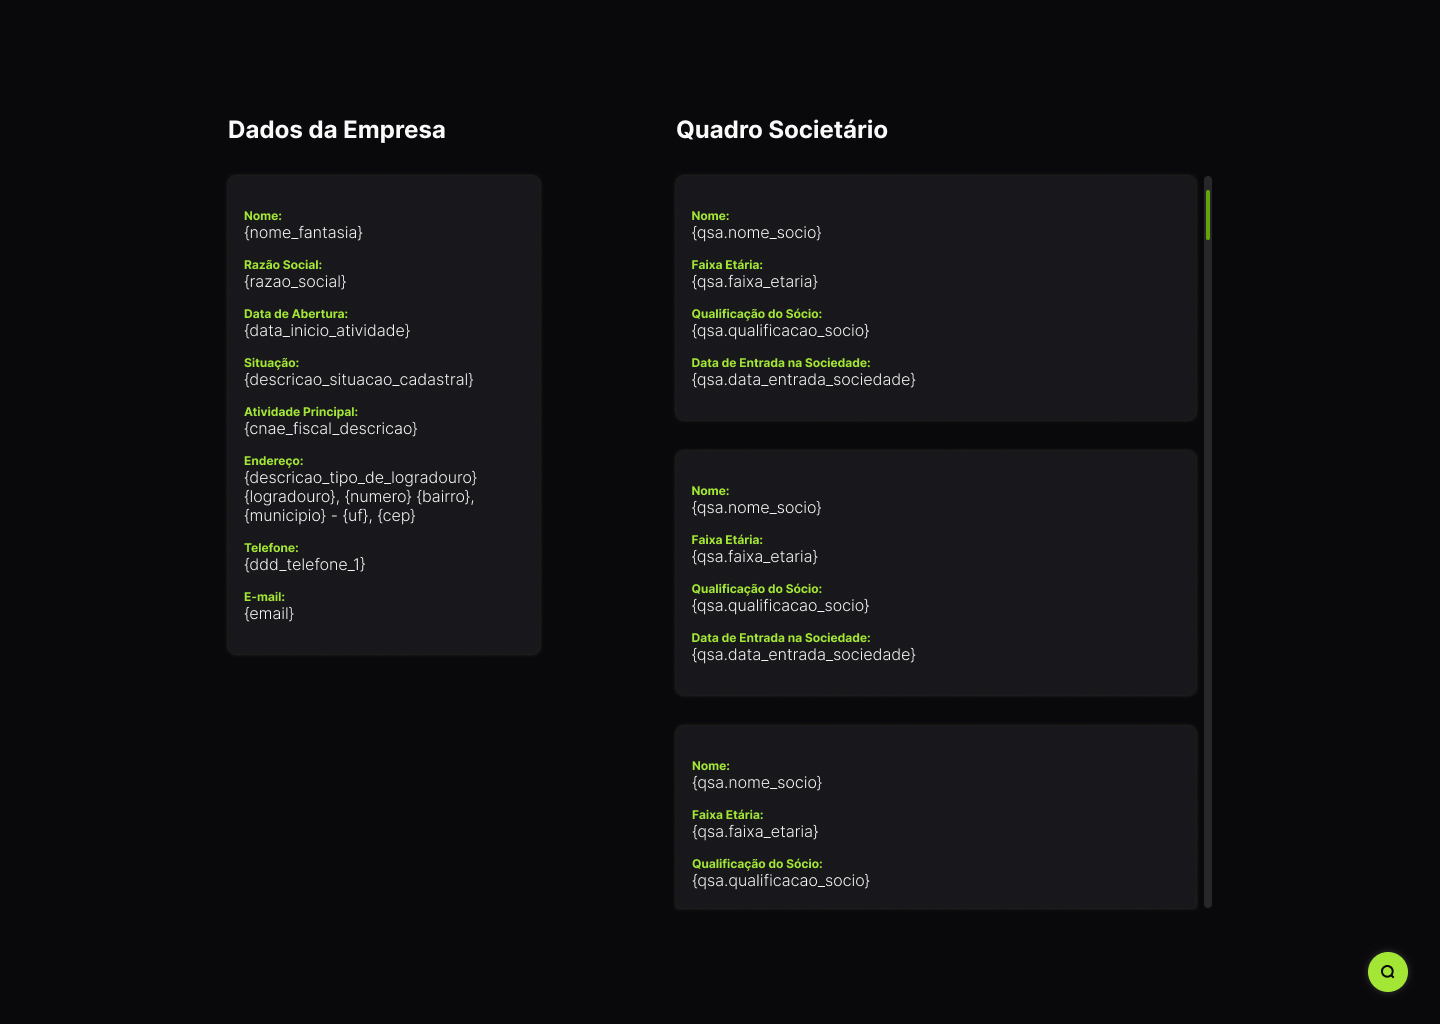
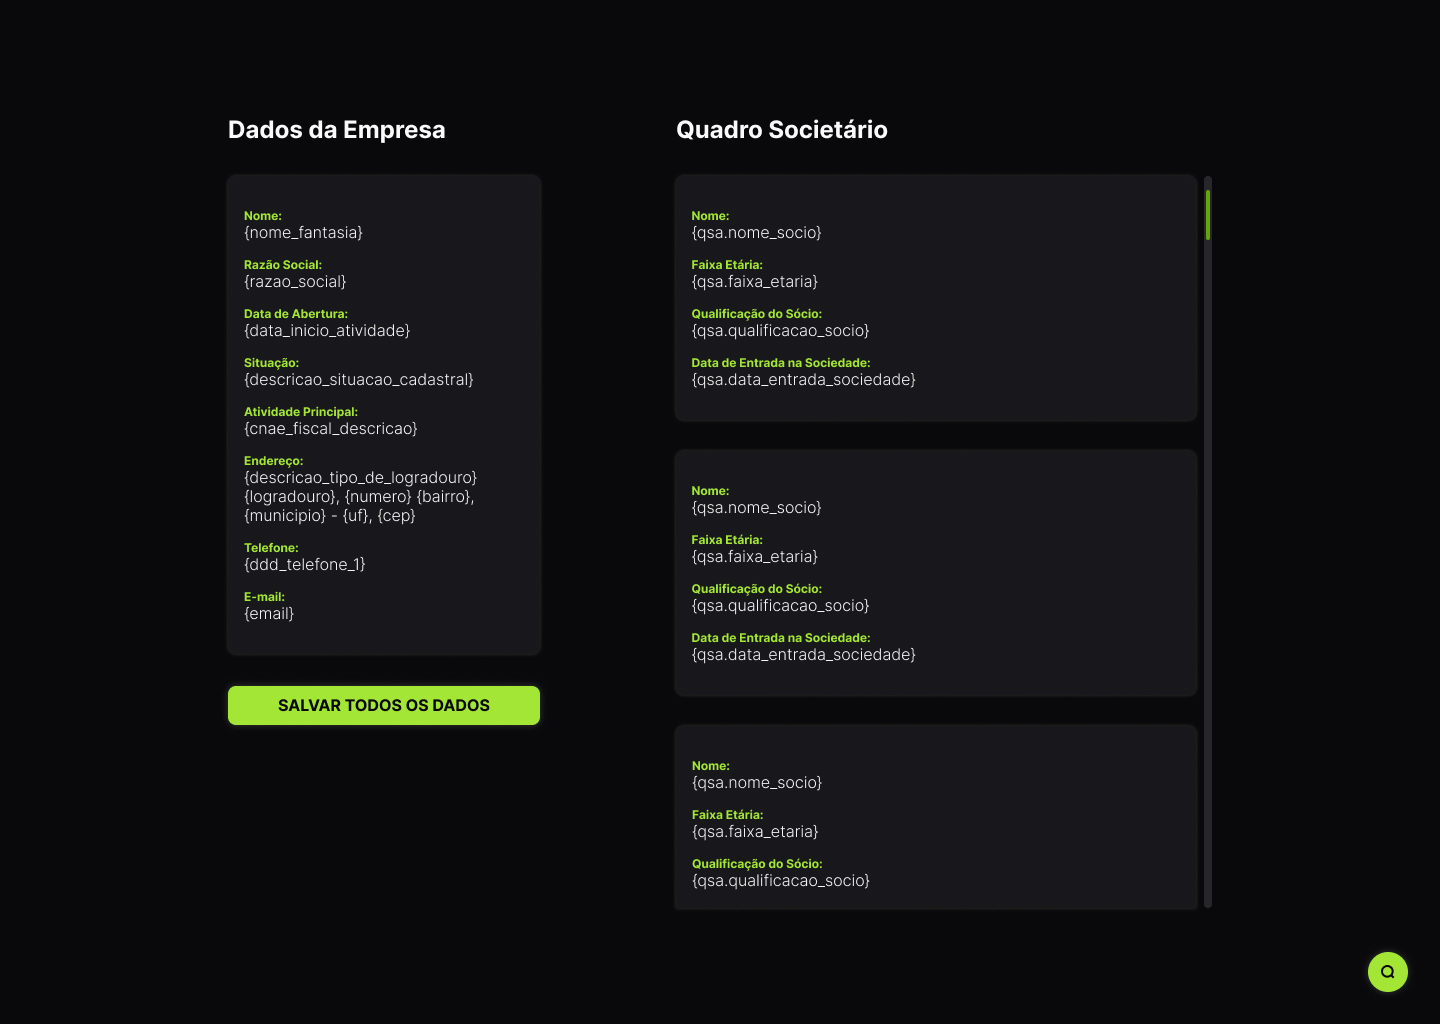
ajuste campos de edicao e adicao de form para envio das informacoes atualizadas

Changed region(s): [[0.1562, 0.6562, 0.375, 0.7188]]

diff --git a/src/components/Quadros/index.tsx b/src/components/Quadros/index.tsx
@@ -1,5 +1,7 @@
 import style from './Quadros.module.scss';
 
+import { CustomInput } from '../CustomInput';
+
 type QuadroEmpresaProps = {
     nome?: string,
     razao_social?: string,
@@ -12,40 +14,42 @@ type QuadroEmpresaProps = {
 }
 
 function QuadroEmpresa( {nome, razao_social, abertura, situacao, atividade, endereco, telefone, email}: QuadroEmpresaProps ) {
+
+
     return (
         <div className={style.quadro}>
             <ul>
                 <li>
                     <h3>Nome:</h3>
-                    {nome ? <p>{nome}</p> : <p className={style.quadro__naoInformado}>Nome não informado</p>}
+                    {nome ?  <CustomInput inputName={"empresaNome"} initialData={nome} /> : <CustomInput inputName={"empresaNome"} initialData={"DADO NÃO INFORMADO"} />}
                 </li>
                 <li>
                     <h3>Razão Social:</h3>
-                    {razao_social ? <p>{razao_social}</p> : <p className={style.quadro__naoInformado}>Razão social não informada</p>}
+                    {razao_social ? <CustomInput inputName={"empresaRazaoSocial"} initialData={razao_social} /> : <CustomInput inputName={"empresaRazaoSocial"} initialData={"DADO NÃO INFORMADO"} />}
                 </li>
                 <li>
                     <h3>Data de Abertura:</h3>
-                    {abertura ? <p>{abertura}</p> : <p className={style.quadro__naoInformado}>Data de abertura não informada</p>}
+                    {abertura ? <CustomInput inputName={"empresaDataAbertura"} initialData={abertura} date /> :  <CustomInput inputName={"empresaDataAbertura"} initialData={"00/00/0000"} date />}
                 </li>
                 <li>
                     <h3>Situação:</h3>
-                    {situacao ? <p>{situacao}</p> : <p className={style.quadro__naoInformado}>Situação não informada</p>}
+                    {situacao ? <CustomInput inputName={"empresaSituacao"} initialData={situacao} /> : <CustomInput inputName={"empresaSituacao"} initialData={"DADO NÃO INFORMADO"} />}
                 </li>
                 <li>
                     <h3>Atividade Principal:</h3>
-                    {atividade ? <p>{atividade}</p> : <p className={style.quadro__naoInformado}>Atividade Principal não informada</p>}
+                    {atividade ? <CustomInput inputName={"empresaAtividadePrincipal"} initialData={atividade} /> : <CustomInput inputName={"empresaAtividadePrincipal"} initialData={"DADO NÃO INFORMADO"} />}
                 </li>
                 <li>
                     <h3>Endereço:</h3>
-                    {endereco ? <p>{endereco}</p> : <p className={style.quadro__naoInformado}>Endereço não informado</p>}
+                    {endereco ? <CustomInput inputName={"empresaEndereco"} initialData={endereco} /> : <CustomInput inputName={"empresaEndereco"} initialData={"DADO NÃO INFORMADO"} />}
                 </li>
                 <li>
                     <h3>Telefone:</h3>
-                    {telefone ? <p>{telefone}</p> : <p className={style.quadro__naoInformado}>Telefone não informado</p>}
+                    {telefone ? <CustomInput inputName={"empresaTelefone"} initialData={telefone} /> : <CustomInput inputName={"empresaTelefone"} initialData={"DADO NÃO INFORMADO"} />}
                 </li>
                 <li>
                     <h3>E-mail:</h3>
-                    {email ? <p>{email}</p> : <p className={style.quadro__naoInformado}>E-mail não informado</p>}
+                    {email ? <CustomInput inputName={"empresaEmail"} initialData={email} /> : <CustomInput inputName={"empresaEmail"} initialData={"DADO NÃO INFORMADO"} />}
                 </li>
             </ul>
         </div>
@@ -53,31 +57,32 @@ function QuadroEmpresa( {nome, razao_social, abertura, situacao, atividade, ende
 }
 
 type QuadroSocioProps = {
+    idSocio: string,
     nome?: string,
     faixa_etaria?: string,
     qualificacao_socio?: string,
     entrada_sociedade?: string,
 }
 
-function QuadroSocio( { nome, faixa_etaria, qualificacao_socio, entrada_sociedade }: QuadroSocioProps ) {
+function QuadroSocio( { idSocio, nome, faixa_etaria, qualificacao_socio, entrada_sociedade }: QuadroSocioProps ) {
     return (
         <div className={style.quadro}>
             <ul>
                 <li>
                     <h3>Nome:</h3>
-                    {nome ? <p>{nome}</p> : <p className={style.quadro__naoInformado}>Não informado</p>}
+                    {nome ? <CustomInput inputName={`socio${idSocio}_nome`} initialData={nome} /> : <CustomInput inputName={`socio${idSocio}_nome`} initialData={"DADO NÃO INFORMADO"} />}
                 </li>
                 <li>
                     <h3>Faixa Etária:</h3>
-                    {faixa_etaria ? <p>{faixa_etaria}</p> : <p className={style.quadro__naoInformado}>Não informado</p>}
+                    {faixa_etaria ? <CustomInput inputName={`socio${idSocio}_faixaEtaria`} initialData={faixa_etaria} /> : <CustomInput inputName={`socio${idSocio}_faixaEtaria`} initialData={"DADO NÃO INFORMADO"} />}
                 </li>
                 <li>
                     <h3>Qualificação do Sócio:</h3>
-                    {qualificacao_socio ? <p>{qualificacao_socio}</p> : <p className={style.quadro__naoInformado}>Não informado</p>}
+                    {qualificacao_socio ? <CustomInput inputName={`socio${idSocio}_QualificacaoSocio`} initialData={qualificacao_socio} /> : <CustomInput inputName={`socio${idSocio}_QualificacaoSocio`} initialData={"DADO NÃO INFORMADO"} />}
                 </li>
                 <li>
                     <h3>Data de Entrada na Sociedade:</h3>
-                    {entrada_sociedade ? <p>{entrada_sociedade}</p> : <p className={style.quadro__naoInformado}>Não informado</p>}
+                    {entrada_sociedade ? <CustomInput inputName={`socio${idSocio}_DataEntradaSociedade`} initialData={entrada_sociedade} date /> : <CustomInput inputName={`socio${idSocio}_DataEntradaSociedade`} initialData={"00/00/0000"} date />}
                 </li>
             </ul>
         </div>

diff --git a/src/pages/Consulta/index.tsx b/src/pages/Consulta/index.tsx
@@ -11,6 +11,10 @@ import { CnpjError } from '../../components/CnpjError';
 import { ConnectionError } from '../../components/ConnectionError';
 import { NewSearch } from '../../components/NewSearch';
 
+import { convertDate } from '../../utils/convertDate';
+import { formatPhoneNumber } from '../../utils/formatPhoneNumber';
+import { SubmitButton } from '../../components/SubmitButton';
+
 function Consulta() {
     const cnpjValue: string = useLocation().pathname.slice(10)
 
@@ -33,37 +37,12 @@ function Consulta() {
         fetchData()
     }, []);
 
-    function convertDate(date: string): string {
-        const [year, month, day] = date.split('-')
-        return `${day}/${month}/${year}`
-    }
-
-    function formatPhoneNumber(phoneNumber: string): string {
-        const code = phoneNumber.slice(0, 2)
-        let phone
-
-        if (phoneNumber.length === 10) {
-            const phonePartOne = phoneNumber.slice(2, 6)
-            const phonePartTwo = phoneNumber.slice(6, 10)
-            
-            phone = `${phonePartOne}-${phonePartTwo}`
-        } else if (phoneNumber.length === 11) {
-            const phonePartOne = phoneNumber.slice(2, 7)
-            const phonePartTwo = phoneNumber.slice(7, 11)
-            
-            phone = `${phonePartOne}-${phonePartTwo}`
-        }
-        
-      
-        return `(${code}) ${phone}`
-    }
-
     if (loading) return <Loading />
     if (!dataCnpj) return <ConnectionError />
     if (dataCnpj?.type === "bad_request") return <CnpjError />
     return (
-        <>
-            <div className={`container ${style.consulta}`}>
+        <form className={style.consulta}>
+            <div className="container">
                 <div className="row justify-content-center align-items-center align-items-lg-stretch">
                     <div className="col-11 col-lg-5 col-xl-4 d-flex flex-column justify-content-start align-items-start mb-5 mb-lg-0">
                         <h1>Dados da Empresa</h1>
@@ -77,6 +56,7 @@ function Consulta() {
                             telefone={formatPhoneNumber(dataCnpj.ddd_telefone_1)}
                             email={dataCnpj.email}
                         />
+                        <SubmitButton type={"desk"} />
                     </div>
                     {dataCnpj.qsa.length > 1 &&
                         <div className="col-11 offset-lg-1 col-lg-6 col-xl-5 d-flex flex-column justify-content-start align-items-start">
@@ -85,6 +65,7 @@ function Consulta() {
                                 {dataCnpj.qsa.map((socio, index) => (
                                     <QuadroSocio
                                         key={index}
+                                        idSocio={(index.toString())}
                                         nome={socio.nome_socio}
                                         faixa_etaria={socio.faixa_etaria}
                                         qualificacao_socio={socio.qualificacao_socio}
@@ -94,10 +75,13 @@ function Consulta() {
                             </div>
                         </div>
                     }
+                    <div className="col-11 d-block d-lg-none">
+                        <SubmitButton type={"mob"} />
+                    </div>
                 </div>
             </div>
             <NewSearch />
-        </>
+        </form>
     );
 }
 

diff --git a/src/components/CustomInput/index.tsx b/src/components/CustomInput/index.tsx
@@ -1,0 +1,45 @@
+import style from './CustomInput.module.scss';
+
+import { useState } from 'react';
+
+import { IMaskInput } from 'react-imask';
+
+
+type CustomInputProps = {
+    initialData: string;
+    inputName: string;
+    date?: boolean;
+}
+
+function CustomInput( { initialData, inputName, date }: CustomInputProps ) {
+    const [dataInput, setDataInput] = useState<string>(initialData)
+
+    function handleInput(e: React.ChangeEvent<HTMLInputElement>) {
+       setDataInput(e.target.value)
+    }
+
+
+    if (date === true) return <IMaskInput 
+                                    id={inputName}
+                                    name={inputName}
+                                    className={style.customInput}
+                                    mask="00/00/0000"
+                                    placeholder={initialData}
+                                    value={dataInput}
+                                    onChange={handleInput}
+                                />
+           
+
+    return (
+        <input
+            id={inputName}
+            name={inputName}
+            className={style.customInput}
+            placeholder={initialData}
+            value={dataInput}
+            onChange={handleInput}
+        />
+    )
+}
+
+export { CustomInput }

diff --git a/src/utils/formatPhoneNumber.tsx b/src/utils/formatPhoneNumber.tsx
@@ -1,0 +1,21 @@
+function formatPhoneNumber(phoneNumber: string): string {
+    const code = phoneNumber.slice(0, 2)
+    let phone
+
+    if (phoneNumber.length === 10) {
+        const phonePartOne = phoneNumber.slice(2, 6)
+        const phonePartTwo = phoneNumber.slice(6, 10)
+        
+        phone = `${phonePartOne}-${phonePartTwo}`
+    } else if (phoneNumber.length === 11) {
+        const phonePartOne = phoneNumber.slice(2, 7)
+        const phonePartTwo = phoneNumber.slice(7, 11)
+        
+        phone = `${phonePartOne}-${phonePartTwo}`
+    }
+    
+  
+    return `(${code}) ${phone}`
+}
+
+export { formatPhoneNumber }

diff --git a/src/components/SubmitButton/index.tsx b/src/components/SubmitButton/index.tsx
@@ -1,0 +1,15 @@
+import style from './SubmitButton.module.scss';
+
+type SubmitButtonProps = {
+    type: "desk" | "mob"
+}
+
+function SubmitButton( { type }: SubmitButtonProps ) {
+    return <input 
+                className={`${style.submitButton} ${type === "desk" ? "d-none" : "d-block"} ${type === "desk" ? "d-lg-block" : "d-lg-none"}`}
+                type="submit"
+                value="Salvar todos os dados"
+            />
+}
+
+export { SubmitButton }

diff --git a/src/components/Quadros/Quadros.module.scss b/src/components/Quadros/Quadros.module.scss
@@ -34,19 +34,6 @@
                 color: var(--lime-400);
                 margin: 0;
             }
-
-            p {
-                font-size: 1rem;
-                font-weight: 300;
-                color: var(--zinc-100);
-                margin: 0;
-            }
         }
-    }
-
-    .quadro__naoInformado {
-        text-transform: uppercase;
-        font-weight: 600 !important;
-        color: var(--zinc-400) !important;
     }
 }

diff --git a/src/pages/Home/Home.module.scss b/src/pages/Home/Home.module.scss
@@ -50,17 +50,6 @@
                 border: none;
             }
         }
-        
-        input::placeholder {
-            opacity: 1;
-    
-            color: var(--zinc-100);
-        }
-        input::-ms-input-placeholde {
-            opacity: 1;
-
-            color: var(--zinc-100);
-        }
     }
     .home__input:hover {
         border: 2px solid var(--lime-500);

diff --git a/src/components/SubmitButton/SubmitButton.module.scss b/src/components/SubmitButton/SubmitButton.module.scss
@@ -1,0 +1,18 @@
+.submitButton {
+    width: 100%;
+    height: auto;
+
+    margin: 2rem 0 0 0;
+    padding: .5rem 1rem;
+
+    background: var(--lime-400);
+
+    border: 2px solid var(--lime-400);
+    border-radius: .5rem;
+
+    
+    font-size: 1rem;
+    font-weight: 700;
+    color: var(--zinc-950);
+    text-transform: uppercase;
+}

diff --git a/src/index.css b/src/index.css
@@ -58,6 +58,20 @@ button:hover, a:hover {
     opacity: .8;
 }
 
+input:focus, input:focus-visible, input:hover {
+    outline: none;
+}
+input::placeholder {
+    opacity: 1;
+
+    color: var(--zinc-300);
+}
+input::-ms-input-placeholde {
+    opacity: 1;
+
+    color: var(--zinc-300);
+}
+
 ::-webkit-scrollbar {
     width: .5rem;
 }

diff --git a/src/components/CustomInput/CustomInput.module.scss b/src/components/CustomInput/CustomInput.module.scss
@@ -1,0 +1,17 @@
+.customInput {
+    width: 100%;
+
+    background: transparent;
+
+    border-top: 0;
+    border-bottom: 1px solid var(--zinc-500);
+    border-left: 0;
+    border-right: 0;
+
+    font-size: 1rem;
+    font-weight: 300;
+    color: var(--zinc-100);
+
+    margin: 0;
+    padding: 0;
+}

diff --git a/src/utils/convertDate.tsx b/src/utils/convertDate.tsx
@@ -1,0 +1,6 @@
+function convertDate(date: string): string {
+    const [year, month, day] = date.split('-')
+    return `${day}/${month}/${year}`
+}
+
+export { convertDate }

diff --git a/src/pages/Consulta/Consulta.module.scss b/src/pages/Consulta/Consulta.module.scss
@@ -1,5 +1,6 @@
 .consulta {
     max-height: 100%;
+    width: 100%;
 
     h1, h2 {
         font-size: 1.5rem;
